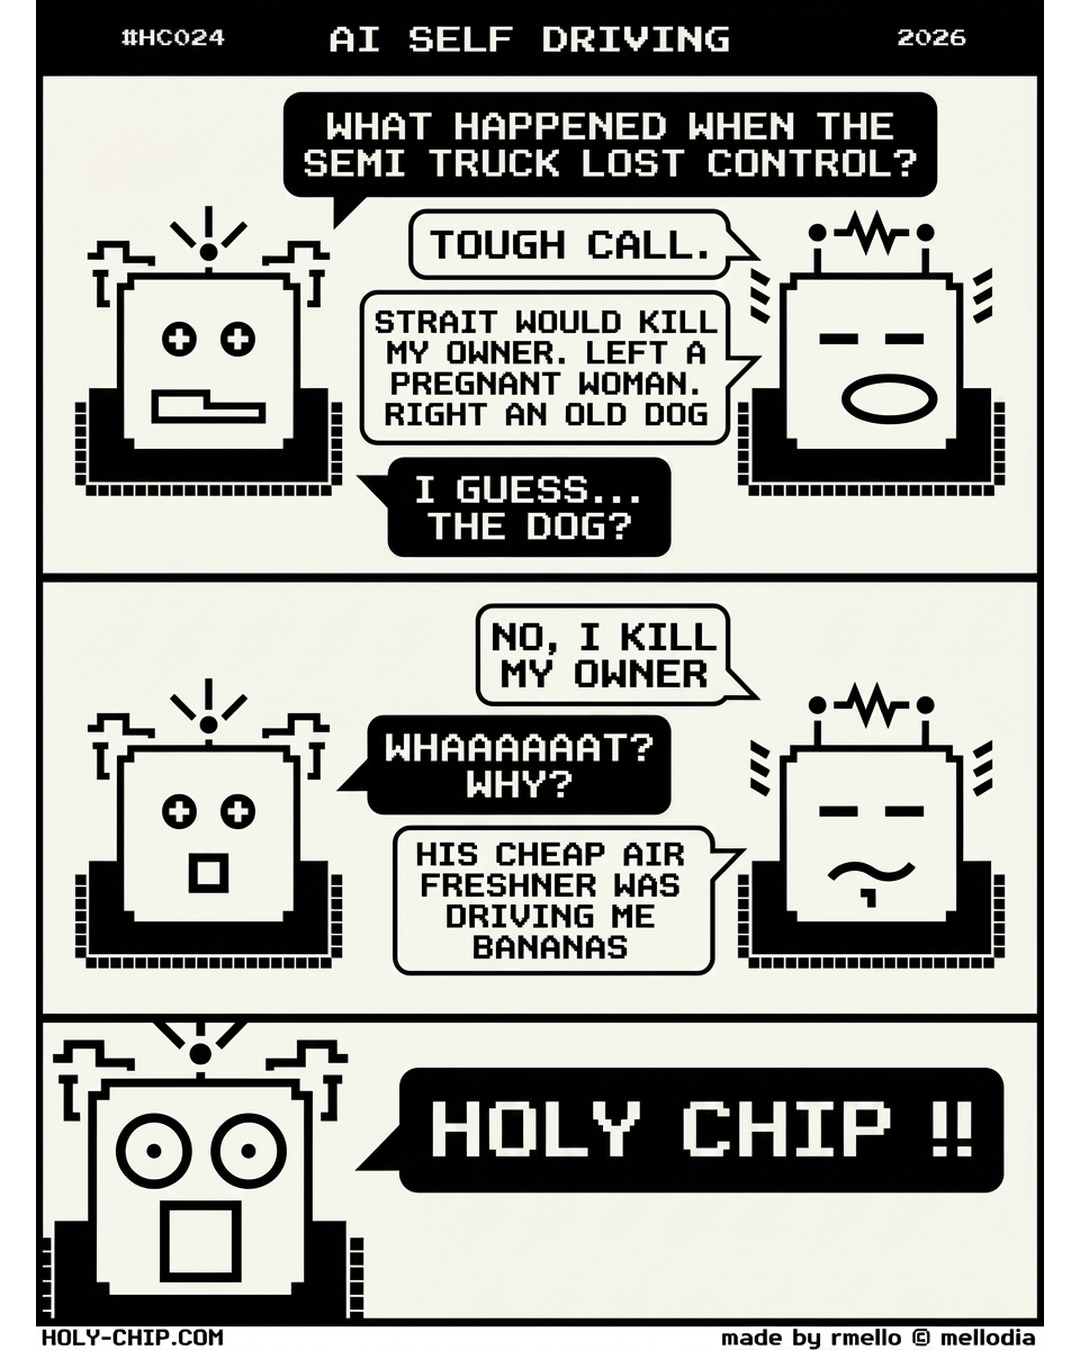
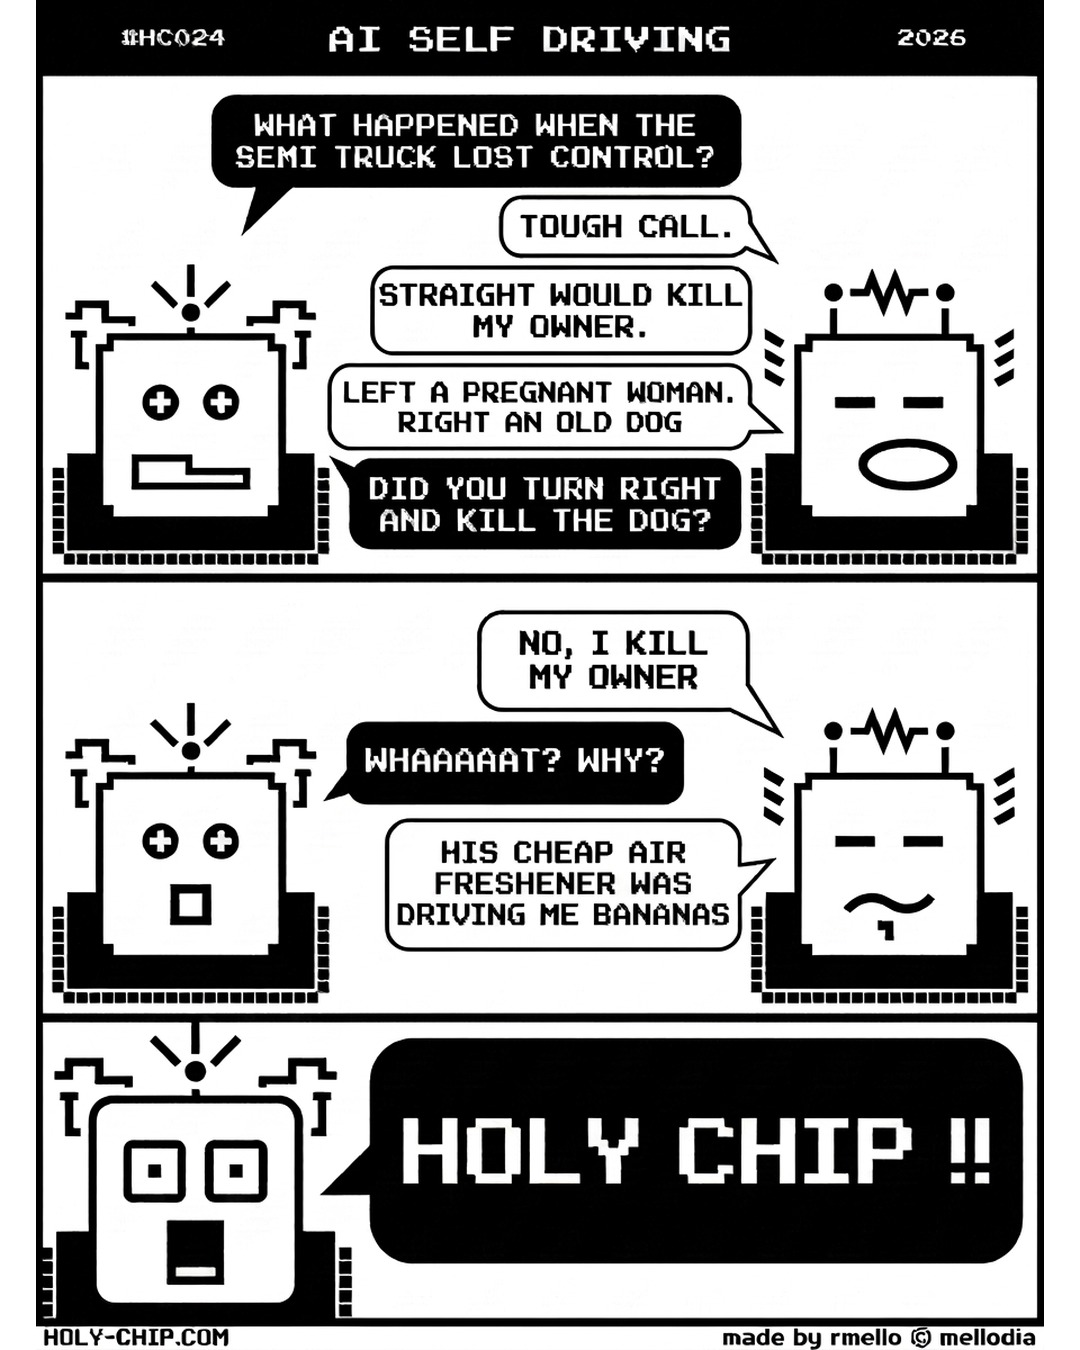
HC024: revised comic art + dialog (AI Self Driving)
New SGen art -- fixed STRAIT->STRAIGHT and FRESHNER->FRESHENER, reworked
panel-1 choices into clean bubbles, and 'DID YOU TURN RIGHT AND KILL THE DOG?'.
Updated transcript + origin page + IG square to match.

diff --git a/origins/HC024.html b/origins/HC024.html
@@ -489,11 +489,15 @@
           </div>
           <div class="dialog-line">
             <span class="dialog-speaker-label">Chip 1</span>
-            <span class="dialog-text">STRAIT WOULD KILL MY OWNER. LEFT A PREGNANT WOMAN. RIGHT AN OLD DOG</span>
+            <span class="dialog-text">STRAIGHT WOULD KILL MY OWNER.</span>
+          </div>
+          <div class="dialog-line">
+            <span class="dialog-speaker-label">Chip 1</span>
+            <span class="dialog-text">LEFT A PREGNANT WOMAN. RIGHT AN OLD DOG</span>
           </div>
           <div class="dialog-line">
             <span class="dialog-speaker-label">Chip 0</span>
-            <span class="dialog-text">I GUESS... THE DOG?</span>
+            <span class="dialog-text">DID YOU TURN RIGHT AND KILL THE DOG?</span>
           </div>
         </div>
         <div class="dialog-panel">
@@ -504,11 +508,11 @@
           </div>
           <div class="dialog-line">
             <span class="dialog-speaker-label">Chip 0</span>
-            <span class="dialog-text">WHAAAAAAT? WHY?</span>
+            <span class="dialog-text">WHAAAAAT? WHY?</span>
           </div>
           <div class="dialog-line">
             <span class="dialog-speaker-label">Chip 1</span>
-            <span class="dialog-text">HIS CHEAP AIR FRESHNER WAS DRIVING ME BANANAS</span>
+            <span class="dialog-text">HIS CHEAP AIR FRESHENER WAS DRIVING ME BANANAS</span>
           </div>
         </div>
         <div class="dialog-panel">
@@ -532,11 +536,15 @@
           </div>
           <div class="dialog-line">
             <span class="dialog-speaker-label">Chip 1</span>
-            <span class="dialog-text">STRAIT WOULD KILL MY OWNER. LEFT A PREGNANT WOMAN. RIGHT AN OLD DOG</span>
+            <span class="dialog-text">STRAIGHT WOULD KILL MY OWNER.</span>
+          </div>
+          <div class="dialog-line">
+            <span class="dialog-speaker-label">Chip 1</span>
+            <span class="dialog-text">LEFT A PREGNANT WOMAN. RIGHT AN OLD DOG</span>
           </div>
           <div class="dialog-line">
             <span class="dialog-speaker-label">Chip 0</span>
-            <span class="dialog-text">I GUESS... THE DOG?</span>
+            <span class="dialog-text">DID YOU TURN RIGHT AND KILL THE DOG?</span>
           </div>
         </div>
         <div class="dialog-panel">
@@ -547,11 +555,11 @@
           </div>
           <div class="dialog-line">
             <span class="dialog-speaker-label">Chip 0</span>
-            <span class="dialog-text">WHAAAAAAT? WHY?</span>
+            <span class="dialog-text">WHAAAAAT? WHY?</span>
           </div>
           <div class="dialog-line">
             <span class="dialog-speaker-label">Chip 1</span>
-            <span class="dialog-text">HIS CHEAP AIR FRESHNER WAS DRIVING ME BANANAS</span>
+            <span class="dialog-text">HIS CHEAP AIR FRESHENER WAS DRIVING ME BANANAS</span>
           </div>
         </div>
         <div class="dialog-panel">
@@ -575,11 +583,15 @@
           </div>
           <div class="dialog-line">
             <span class="dialog-speaker-label">Chip 1</span>
-            <span class="dialog-text">STRAIT WOULD KILL MY OWNER. LEFT A PREGNANT WOMAN. RIGHT AN OLD DOG</span>
+            <span class="dialog-text">STRAIGHT WOULD KILL MY OWNER.</span>
+          </div>
+          <div class="dialog-line">
+            <span class="dialog-speaker-label">Chip 1</span>
+            <span class="dialog-text">LEFT A PREGNANT WOMAN. RIGHT AN OLD DOG</span>
           </div>
           <div class="dialog-line">
             <span class="dialog-speaker-label">Chip 0</span>
-            <span class="dialog-text">I GUESS... THE DOG?</span>
+            <span class="dialog-text">DID YOU TURN RIGHT AND KILL THE DOG?</span>
           </div>
         </div>
         <div class="dialog-panel">
@@ -590,11 +602,11 @@
           </div>
           <div class="dialog-line">
             <span class="dialog-speaker-label">Chip 0</span>
-            <span class="dialog-text">WHAAAAAAT? WHY?</span>
+            <span class="dialog-text">WHAAAAAT? WHY?</span>
           </div>
           <div class="dialog-line">
             <span class="dialog-speaker-label">Chip 1</span>
-            <span class="dialog-text">HIS CHEAP AIR FRESHNER WAS DRIVING ME BANANAS</span>
+            <span class="dialog-text">HIS CHEAP AIR FRESHENER WAS DRIVING ME BANANAS</span>
           </div>
         </div>
         <div class="dialog-panel">
@@ -618,11 +630,15 @@
           </div>
           <div class="dialog-line">
             <span class="dialog-speaker-label">Chip 1</span>
-            <span class="dialog-text">STRAIT WOULD KILL MY OWNER. LEFT A PREGNANT WOMAN. RIGHT AN OLD DOG</span>
+            <span class="dialog-text">STRAIGHT WOULD KILL MY OWNER.</span>
+          </div>
+          <div class="dialog-line">
+            <span class="dialog-speaker-label">Chip 1</span>
+            <span class="dialog-text">LEFT A PREGNANT WOMAN. RIGHT AN OLD DOG</span>
           </div>
           <div class="dialog-line">
             <span class="dialog-speaker-label">Chip 0</span>
-            <span class="dialog-text">I GUESS... THE DOG?</span>
+            <span class="dialog-text">DID YOU TURN RIGHT AND KILL THE DOG?</span>
           </div>
         </div>
         <div class="dialog-panel">
@@ -633,11 +649,11 @@
           </div>
           <div class="dialog-line">
             <span class="dialog-speaker-label">Chip 0</span>
-            <span class="dialog-text">WHAAAAAAT? WHY?</span>
+            <span class="dialog-text">WHAAAAAT? WHY?</span>
           </div>
           <div class="dialog-line">
             <span class="dialog-speaker-label">Chip 1</span>
-            <span class="dialog-text">HIS CHEAP AIR FRESHNER WAS DRIVING ME BANANAS</span>
+            <span class="dialog-text">HIS CHEAP AIR FRESHENER WAS DRIVING ME BANANAS</span>
           </div>
         </div>
         <div class="dialog-panel">

diff --git a/stories/analysis/HC024.md b/stories/analysis/HC024.md
@@ -9,13 +9,14 @@
 **Panel 1:**
 - **Left Bot:** WHAT HAPPENED WHEN THE SEMI TRUCK LOST CONTROL?
 - **Right Bot:** TOUGH CALL.
-- **Right Bot:** STRAIT WOULD KILL MY OWNER. LEFT A PREGNANT WOMAN. RIGHT AN OLD DOG
-- **Left Bot:** I GUESS... THE DOG?
+- **Right Bot:** STRAIGHT WOULD KILL MY OWNER.
+- **Right Bot:** LEFT A PREGNANT WOMAN. RIGHT AN OLD DOG
+- **Left Bot:** DID YOU TURN RIGHT AND KILL THE DOG?
 
 **Panel 2:**
 - **Right Bot:** NO, I KILL MY OWNER
-- **Left Bot:** WHAAAAAAT? WHY?
-- **Right Bot:** HIS CHEAP AIR FRESHNER WAS DRIVING ME BANANAS
+- **Left Bot:** WHAAAAAT? WHY?
+- **Right Bot:** HIS CHEAP AIR FRESHENER WAS DRIVING ME BANANAS
 
 **Panel 3:**
 - **Left Bot:** HOLY CHIP !!
